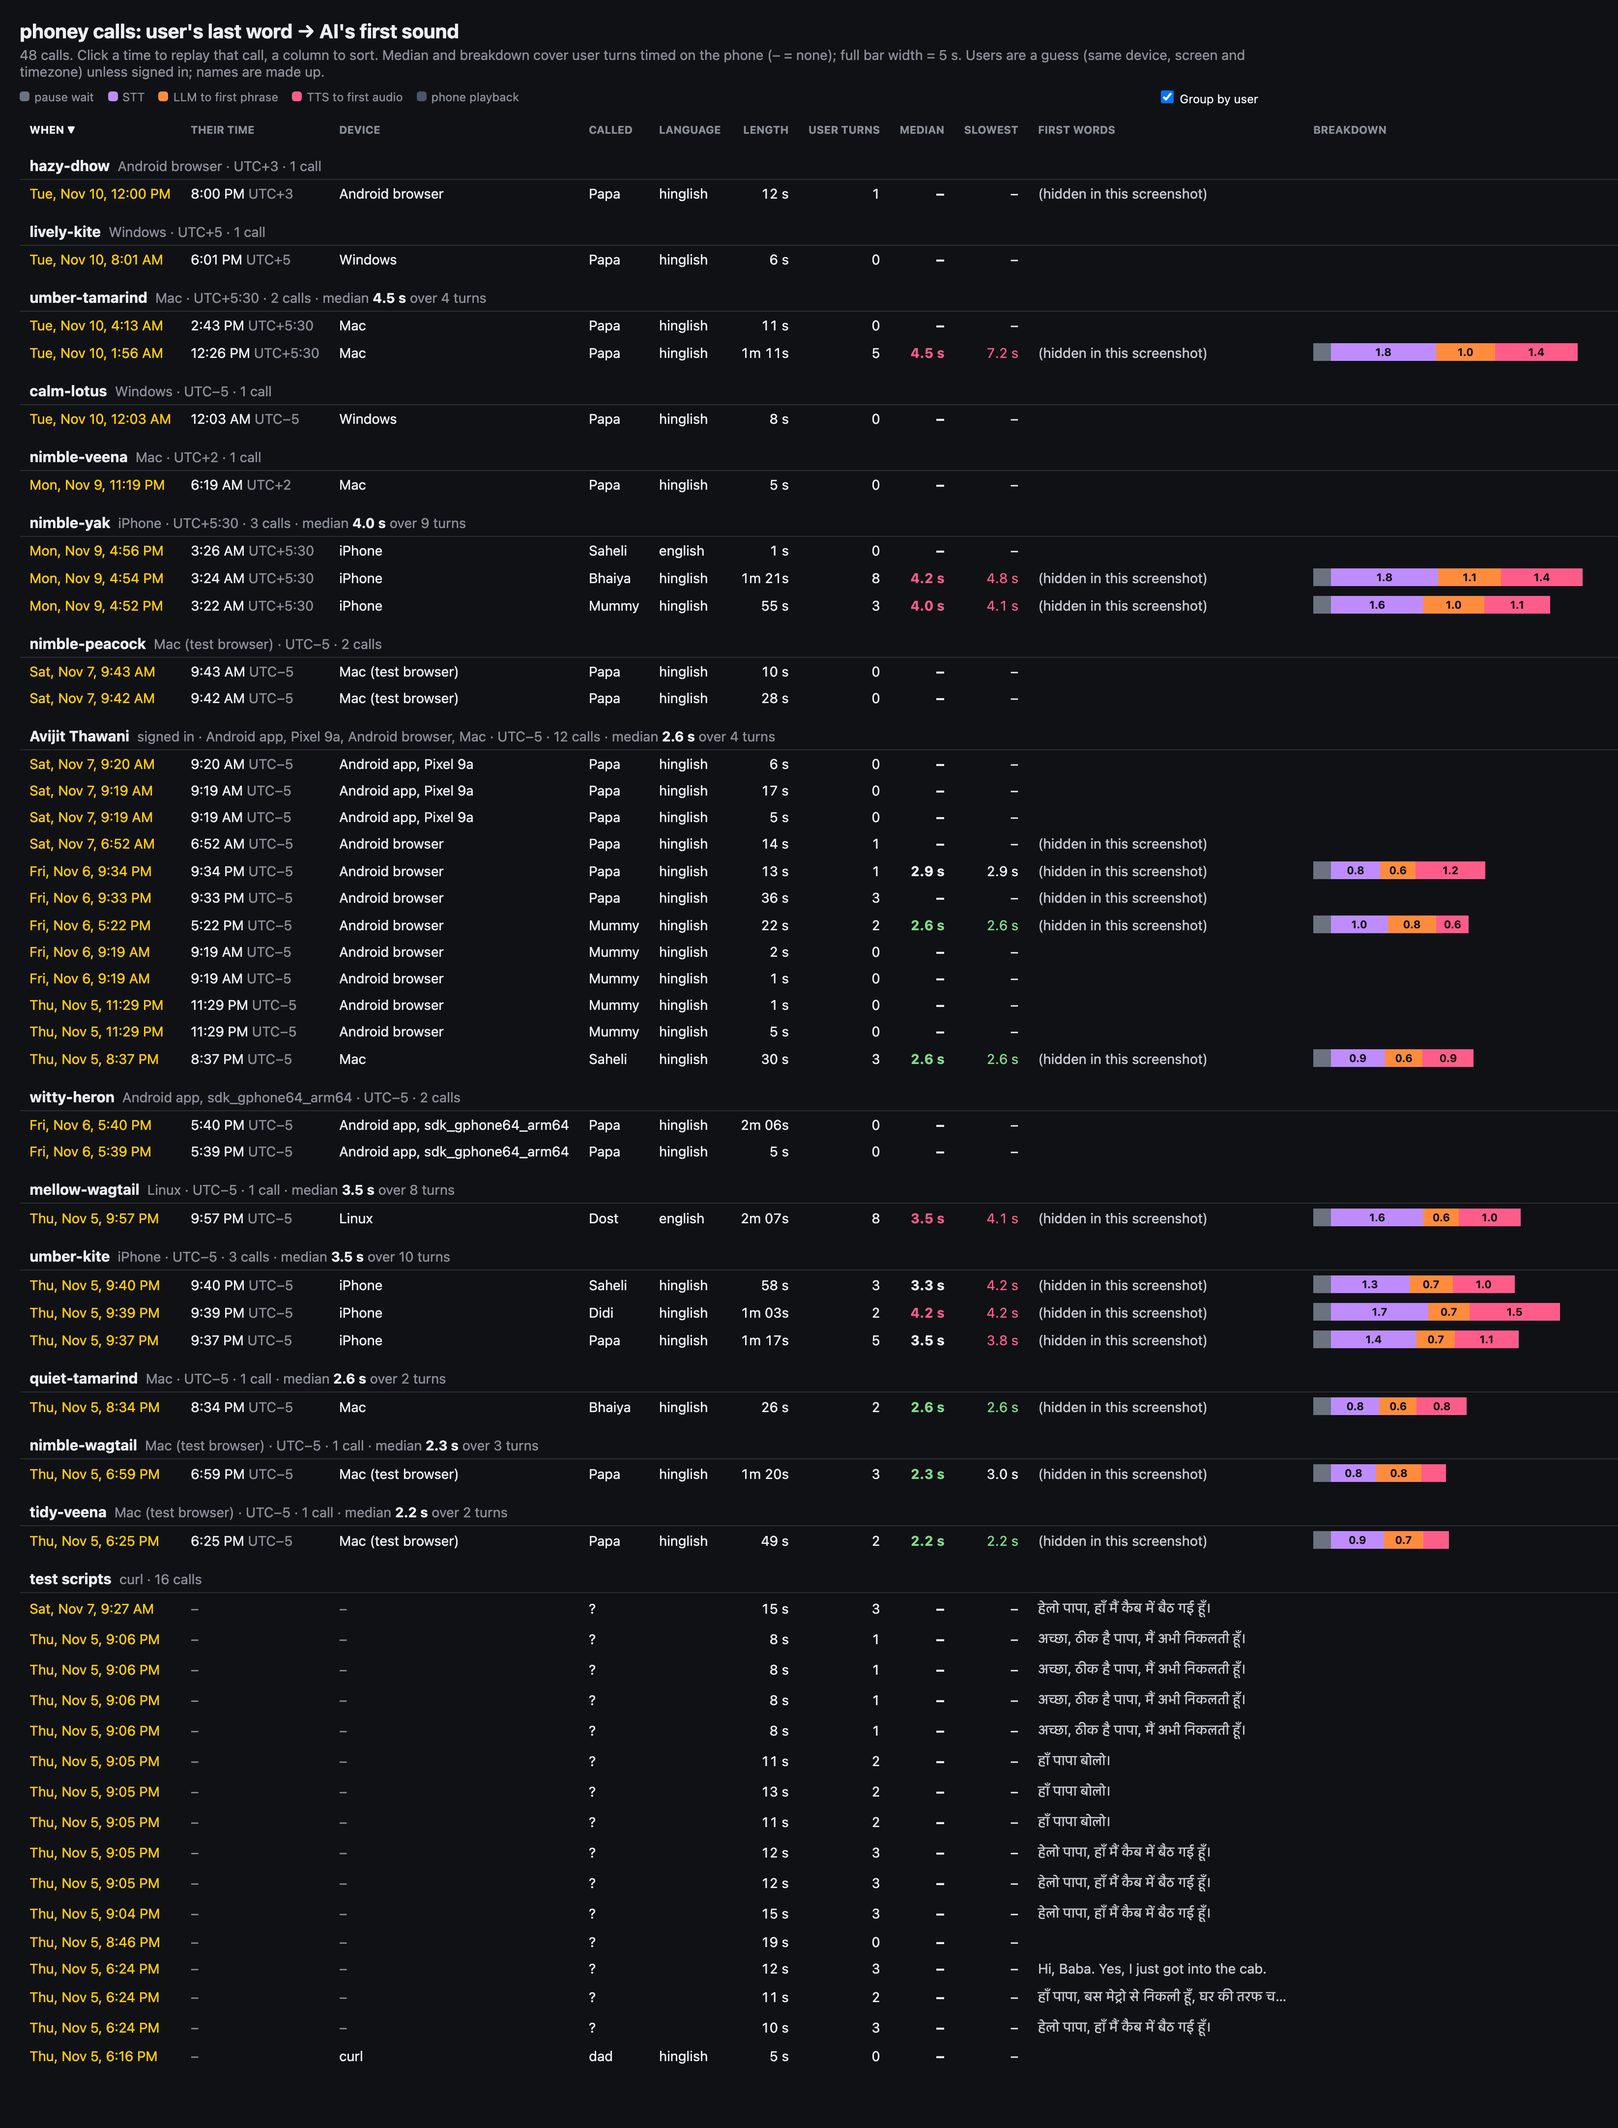
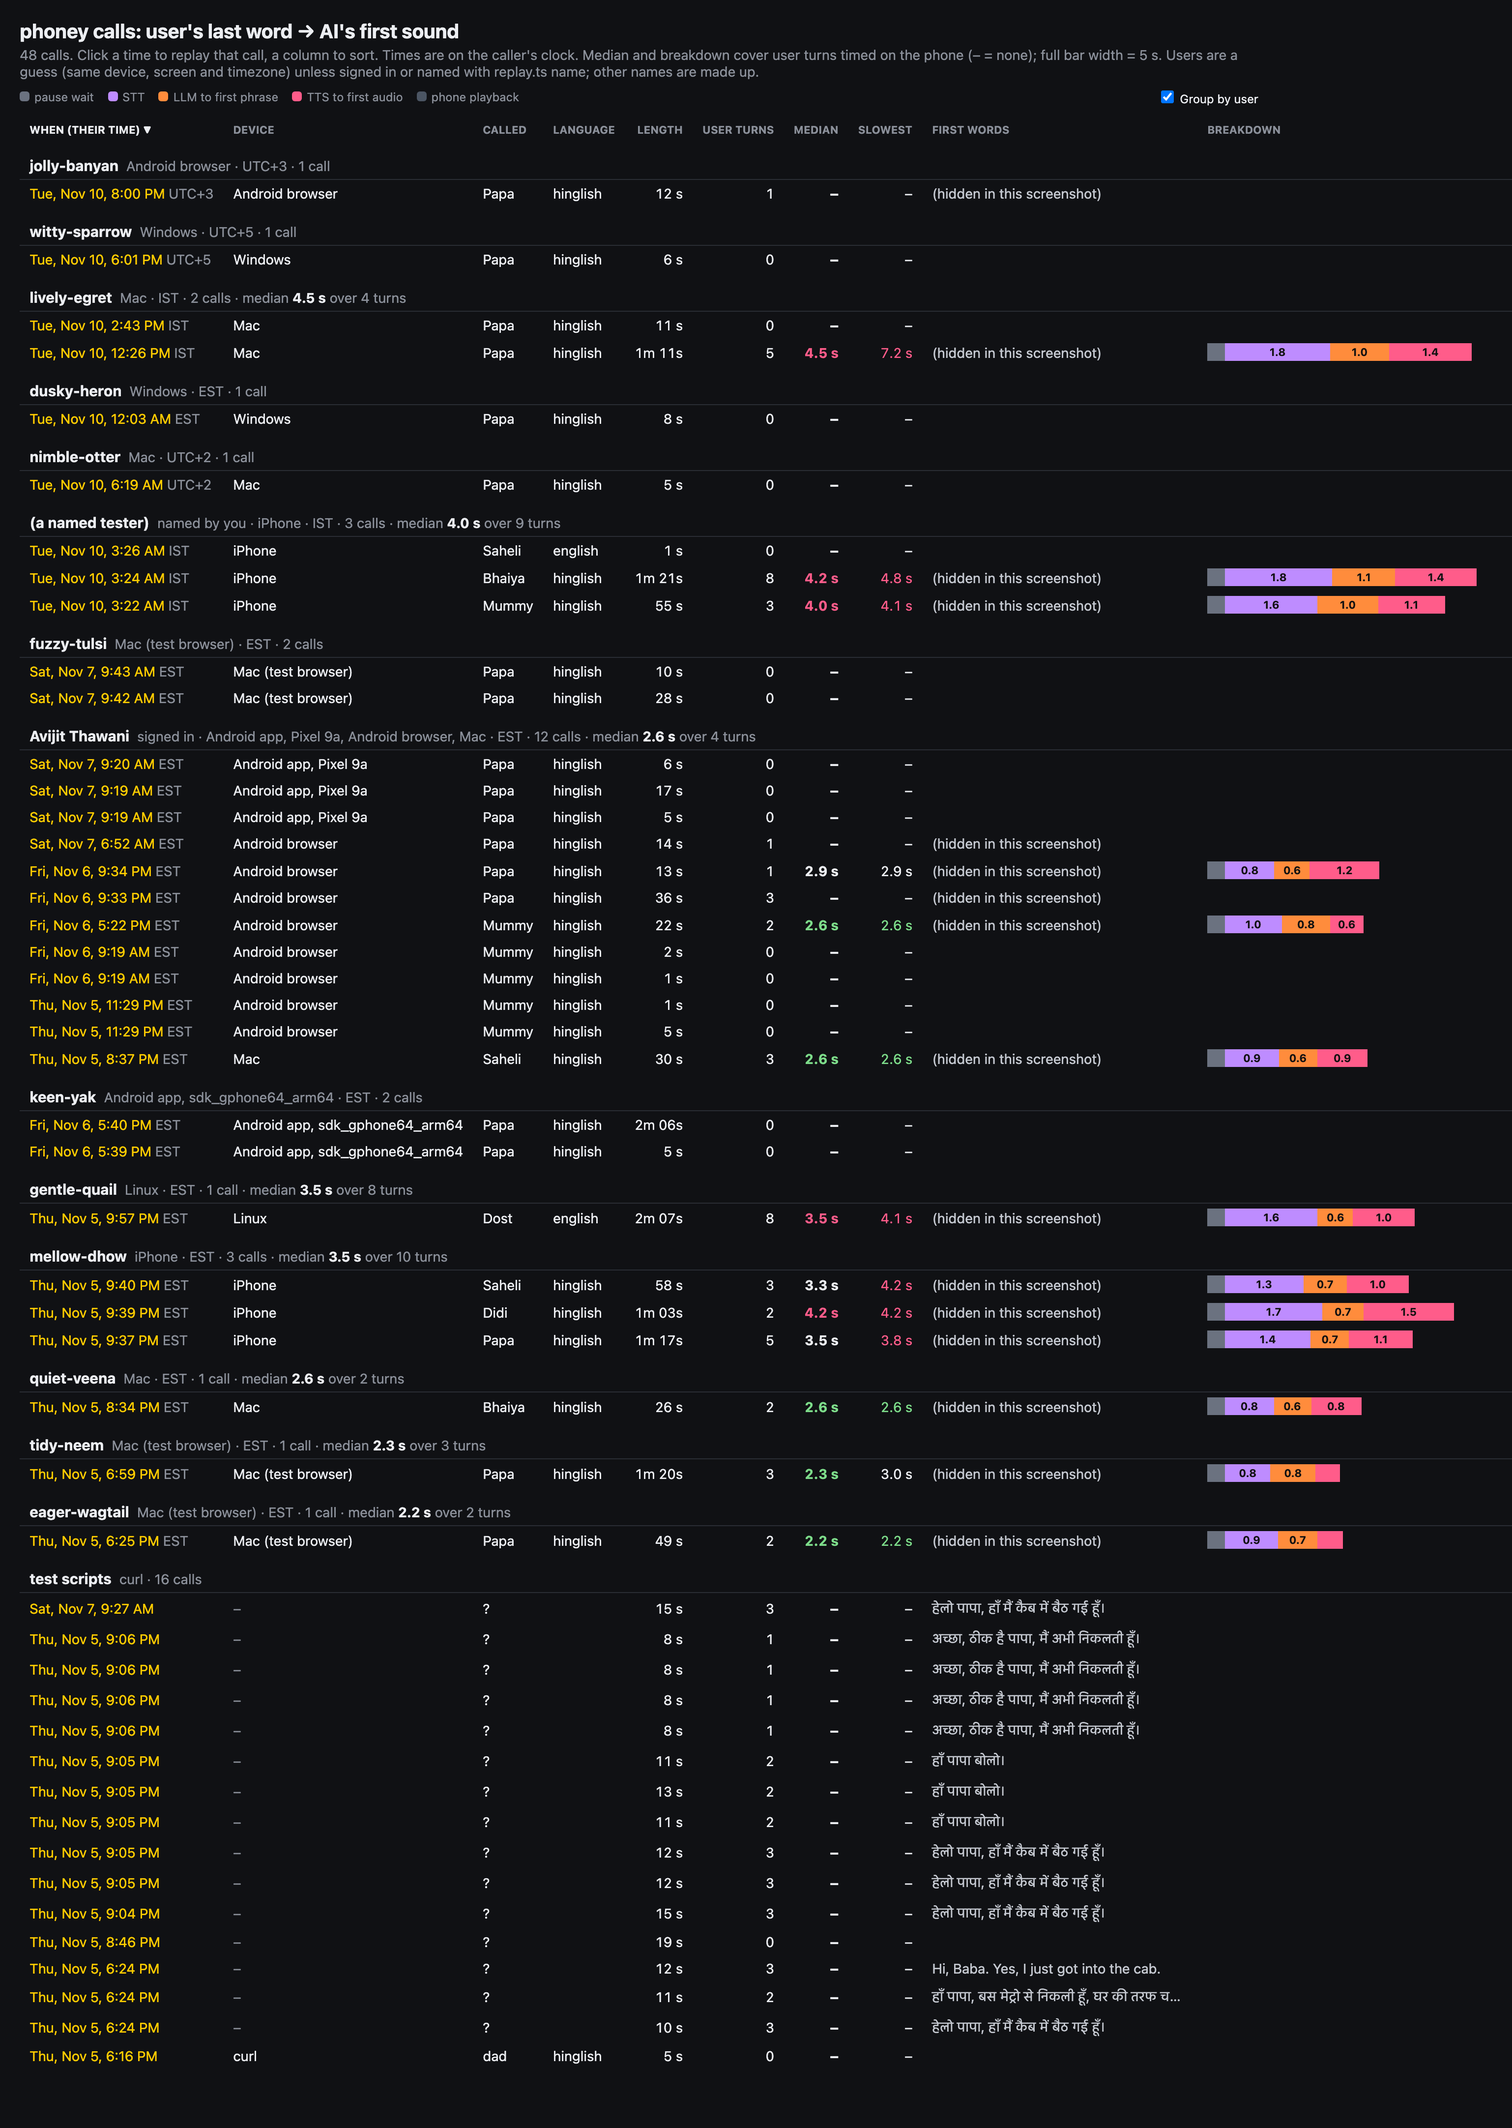
Replay index: times on the caller's clock with zone names, name a device's caller (replay.ts name), nicknames without repeated words

diff --git a/scripts/replay.ts b/scripts/replay.ts
@@ -1,6 +1,7 @@
 // Replays logged calls as pages: the call's real audio on one timeline (user lines, ai clauses,
 // fillers) and, per turn, the user's last word -> the ai's first sound split by pipeline step.
 //   node scripts/replay.ts serve                  builds every call, serves http://localhost:5199/ (calls grouped by user; click one, Replay)
+//   node scripts/replay.ts name <id> <name>       names every call from that call's device (kept in logs/, not git)
 //   node scripts/replay.ts [<id>|latest|all]      -> logs/replay/<id>.html (+ index.html)
 //   node scripts/replay-shot.mjs <id> [--video]   -> PNG (and MP4 with the call audio)
 // Deployed calls: `node scripts/logs.ts --remote <id>` downloads one into logs/calls/ first.
@@ -202,11 +203,20 @@ const NOUN = ['banyan', 'chai', 'dhow', 'egret', 'ferry', 'gulmohar', 'heron', '
 function nickname(key: string, taken: Set<string>): string {
   let h = 2166136261
   for (const c of key) h = Math.imul(h ^ c.charCodeAt(0), 16777619) >>> 0
-  for (let i = 0; ; i++) {
-    const name = `${ADJ[(h + i) % ADJ.length]}-${NOUN[(Math.floor(h / ADJ.length) + i) % NOUN.length]}`
-    if (!taken.has(name)) { taken.add(name); return name }
+  h = Math.imul(h ^ (h >>> 15), 2246822519) >>> 0 // similar keys differ only in their last characters: mix
+  // No adjective or noun repeats until the list runs out, so names are easy to tell apart.
+  const pick = (words: string[], from: number) => {
+    for (let i = 0; i < words.length; i++) {
+      const w = words[(from + i) % words.length]
+      if (!taken.has(w)) { taken.add(w); return w }
+    }
+    return words[from % words.length]
   }
+  return `${pick(ADJ, h % ADJ.length)}-${pick(NOUN, (h >>> 8) % NOUN.length)}`
 }
+
+const NAMES = path.join(OUT, 'names.json')
+const fingerprint = (r: Replay) => `${r.device}|${r.screen}|${r.tzMin}`
 
 function env(name: string): string | undefined {
   if (process.env[name]) return process.env[name]
@@ -243,12 +253,14 @@ async function accounts(): Promise<Record<string, string>> {
 /** One row per call: who called (account, else a nickname per device + screen + timezone), when, and step medians. */
 function index(rs: Replay[], account: Record<string, string>): string {
   const taken = new Set<string>(), nick = new Map<string, string>()
+  const named: Record<string, string> = json(NAMES) ?? {}
   const rows = [...rs].sort((a, b) => (a.startedAt ?? '').localeCompare(b.startedAt ?? '')).map((r) => {
     const real = r.turns.filter((x) => !x.estimated && x.user)
     const totals = real.map((x) => x.totalMs)
-    const known = !!account[r.id]
-    const key = `${r.device}|${r.screen}|${r.tzMin}`
-    const user = r.script ? SCRIPTS : known ? account[r.id] : nick.get(key) ?? nick.set(key, nickname(key, taken)).get(key)!
+    const key = fingerprint(r)
+    // Who: a name given with `replay.ts name`, else the signed-in account, else a nickname for the device.
+    const known = named[key] ? 'named by you' : account[r.id] ? 'signed in' : ''
+    const user = r.script ? SCRIPTS : named[key] ?? account[r.id] ?? nick.get(key) ?? nick.set(key, nickname(key, taken)).get(key)!
     const steps = Object.fromEntries((Object.keys(COLORS) as (keyof typeof COLORS)[]).map((k) =>
       [k, real.length ? median(real.map((x) => { const s = x.steps.find((y) => y.key === k); return s ? (s.gate ?? s.to - s.from) : 0 })) : 0]))
     return {
@@ -264,8 +276,17 @@ function index(rs: Replay[], account: Record<string, string>): string {
 
 if (import.meta.url === `file://${process.argv[1]}`) {
   const arg = process.argv[2] || 'latest'
+  mkdirSync(OUT, { recursive: true })
+  if (arg === 'name') {
+    // Stays in logs/ (gitignored): real people's names never go to git.
+    const [id, ...words] = process.argv.slice(3)
+    const r = id ? build(id) : undefined
+    if (!r || !words.length) { console.log('usage: replay.ts name <call id> <name>   (names every call from that device)'); process.exit(1) }
+    writeFileSync(NAMES, JSON.stringify({ ...(json(NAMES) ?? {}), [fingerprint(r)]: words.join(' ') }, null, 1))
+    console.log(`${fingerprint(r)} -> ${words.join(' ')}`)
+  }
   const ids = readdirSync(CALLS).filter((d) => statSync(path.join(CALLS, d)).isDirectory()).sort()
-  const pick = arg === 'all' || arg === 'serve' ? ids : arg === 'latest' ? ids.filter((d) => /^2026\d{4}-/.test(d)).slice(-1) : [arg]
+  const pick = arg === 'all' || arg === 'serve' || arg === 'name' ? ids : arg === 'latest' ? ids.filter((d) => /^2026\d{4}-/.test(d)).slice(-1) : [arg]
   mkdirSync(OUT, { recursive: true })
   const built: Replay[] = []
   for (const id of pick) {
@@ -277,7 +298,7 @@ if (import.meta.url === `file://${process.argv[1]}`) {
     const real = r.turns.filter((x) => !x.estimated && x.user)
     console.log(`${OUT}/${id}.html  ${r.turns.length} turns, ${r.clips.length} clips, median ${real.length ? median(real.map((x) => x.totalMs)) : '-'} ms`)
   }
-  const all = readdirSync(OUT).filter((f) => f.endsWith('.json') && f !== 'accounts.json').map((f) => JSON.parse(readFileSync(path.join(OUT, f), 'utf8')) as Replay)
+  const all = readdirSync(OUT).filter((f) => f.endsWith('.json') && f !== 'accounts.json' && f !== 'names.json').map((f) => JSON.parse(readFileSync(path.join(OUT, f), 'utf8')) as Replay)
   writeFileSync(path.join(OUT, 'index.html'), index(all, await accounts()))
   if (arg === 'serve') {
     const root = path.resolve('logs')

diff --git a/scripts/replay-index.html b/scripts/replay-index.html
@@ -38,13 +38,15 @@ const secs = (ms) => (ms == null ? '–' : (ms / 1000).toFixed(1) + ' s')
 const speed = (ms) => (ms == null ? '' : ms >= 3500 ? 'slow' : ms <= 2700 ? 'ok' : '')
 const len = (s) => (s == null ? '–' : s >= 60 ? Math.floor(s / 60) + 'm ' + String(Math.round(s % 60)).padStart(2, '0') + 's' : Math.round(s) + ' s')
 const when = new Intl.DateTimeFormat(undefined, { weekday: 'short', month: 'short', day: 'numeric', hour: 'numeric', minute: '2-digit' })
+// Offsets with one obvious zone get its name; the rest could be several countries, so they stay as an offset.
+const ZONES = { 330: 'IST', '-300': 'EST', '-240': 'EDT', '-360': 'CST', '-420': 'MST', '-480': 'PST', 0: 'GMT', 60: 'CET', 345: 'NPT', 480: 'SGT', 540: 'JST' }
 const utc = (min) => 'UTC' + (min < 0 ? '−' : '+') + Math.floor(Math.abs(min) / 60) + (min % 60 ? ':' + String(Math.abs(min) % 60).padStart(2, '0') : '')
-/** The caller's own clock time, from their UTC offset. */
-function theirs(r) {
-  if (r.tzMin == null) return '<span class="dim">–</span>'
-  const d = new Date(r.at + r.tzMin * 60000)
-  const h = d.getUTCHours(), m = String(d.getUTCMinutes()).padStart(2, '0')
-  return `${h % 12 || 12}:${m} ${h < 12 ? 'AM' : 'PM'} <span class="dim">${utc(r.tzMin)}</span>`
+const zone = (min) => ZONES[min] ?? utc(min)
+const theirClock = new Intl.DateTimeFormat(undefined, { weekday: 'short', month: 'short', day: 'numeric', hour: 'numeric', minute: '2-digit', timeZone: 'UTC' })
+/** The call's start on the caller's own clock (their UTC offset comes from the session id); hover for yours. */
+function started(r) {
+  const text = r.tzMin == null ? when.format(r.at) : `${theirClock.format(r.at + r.tzMin * 60000)} <span class="dim">${zone(r.tzMin)}</span>`
+  return `<a href="${esc(r.id)}.html" title="${esc(when.format(r.at))} your time · ${esc(r.id)}">${text}</a>`
 }
 function bar(r) {
   return Object.keys(D.colors).map((k) => {
@@ -53,9 +55,8 @@ function bar(r) {
   }).join('')
 }
 const cols = [
-  { k: 'at', label: 'When', cell: (r) => `<a href="${esc(r.id)}.html" title="${esc(r.id)}">${when.format(r.at)}</a>` },
+  { k: 'at', label: 'When (their time)', cell: started },
   { k: 'user', label: 'User', cell: (r) => esc(r.user), grouped: false },
-  { k: 'tzMin', label: 'Their time', cell: theirs },
   { k: 'device', label: 'Device', cell: (r) => esc(r.device) || '<span class="dim">–</span>' },
   { k: 'who', label: 'Called', cell: (r) => esc(r.who) },
   { k: 'language', label: 'Language', cell: (r) => esc(r.language) },
@@ -92,8 +93,8 @@ function render() {
       const totals = g.flatMap((r) => r.totals)
       const med = median(totals)
       const devices = [...new Set(g.map((r) => r.device).filter(Boolean))].join(', ')
-      const tz = [...new Set(g.map((r) => r.tzMin).filter((x) => x != null))].map(utc).join(', ')
-      const bits = [g[0].known ? 'signed in' : '', devices, tz, `${g.length} call${g.length > 1 ? 's' : ''}`,
+      const tz = [...new Set(g.map((r) => r.tzMin).filter((x) => x != null))].map(zone).join(', ')
+      const bits = [g[0].known || '', devices, tz, `${g.length} call${g.length > 1 ? 's' : ''}`,
         totals.length ? `median <b class="${speed(med)}" style="font-size:inherit;margin:0">${secs(med)}</b> over ${totals.length} turns` : ''].filter(Boolean)
       html += `<tr class="g"><td colspan="${shown.length}"><b>${esc(name)}</b>${bits.join(' · ')}</td></tr>` + g.map(tr).join('')
     }
@@ -108,8 +109,8 @@ document.getElementById('head').onclick = (e) => {
   else { state.key = c.k; state.dir = c.num || c.k === 'at' ? -1 : 1 }
   render()
 }
-document.getElementById('sub').textContent = `${D.rows.length} calls. Click a time to replay that call, a column to sort. Median and breakdown cover user turns timed on the phone (– = none); full bar width = ${D.scaleMs / 1000} s. ` +
-  `Users are a guess (same device, screen and timezone) unless signed in; names are made up.`
+document.getElementById('sub').textContent = `${D.rows.length} calls. Click a time to replay that call, a column to sort. Times are on the caller's clock. Median and breakdown cover user turns timed on the phone (– = none); full bar width = ${D.scaleMs / 1000} s. ` +
+  `Users are a guess (same device, screen and timezone) unless signed in or named with replay.ts name; other names are made up.`
 document.getElementById('lg').innerHTML = Object.keys(D.colors).map((k) => `<span><i style="background:${D.colors[k]}"></i>${D.labels[k]}</span>`).join('') +
   `<label><input type="checkbox" id="grp" checked> Group by user</label>`
 document.getElementById('grp').onchange = (e) => { state.group = e.target.checked; render() }

diff --git a/kanban/call-replay.md b/kanban/call-replay.md
@@ -3,6 +3,7 @@ feature: Call replay (listen to a logged call, see where each reply's delay went
 tags: []
 tests: [replay-serve, replay-shot]
 transcripts:
+  - efb09834-6f42-40b0-aac0-b2aad62a205e 2026-11-10 index: times on the caller's clock with zone names, `replay.ts name`, nicknames no longer repeat words (local commit, not pushed)
   - efb09834-6f42-40b0-aac0-b2aad62a205e 2026-11-10 index reworked: calls grouped by user, sortable columns, sticky header
   - efb09834-6f42-40b0-aac0-b2aad62a205e 2026-11-10 card created retroactively, screenshots, first use on a tester's calls
   - b8e89f5b-88b6-49b8-8c53-42ff14b8c27e 2026-11-07 built the viewer (commits bce7cc5, 0f9c946, add1d31)
@@ -18,7 +19,7 @@ A local debugging page, not part of the app: it plays back any logged call on on
 <img src="media/call-replay-page.png" width="200" alt="One call: summary, whole-call row, transcript, a panel per turn">
 <img src="media/call-replay-playing.png" width="260" alt="Mid-replay: playhead crossing turn 01">
 
-Left: the index, 2026-11-10, with real callers' first words hidden for the screenshot. Middle and right: a scripted `smoke-call` with lab voices, so every bar is dashed and marked "~" (server timings plus a network guess); real calls show solid bars for the server's share and hatched for upload, network and decode. Real callers' pages are never committed.
+Left: the index, 2026-11-10, with real callers' first words and given names hidden for the screenshot. Middle and right: a scripted `smoke-call` with lab voices, so every bar is dashed and marked "~" (server timings plus a network guess); real calls show solid bars for the server's share and hatched for upload, network and decode. Real callers' pages are never committed.
 
 ## Where it lives
 
@@ -34,8 +35,8 @@ Deployed calls must be downloaded first: `node scripts/logs.ts --remote` lists t
 ## How to read it
 
 - Step lengths come from the phone's per-turn metrics, so they add up to the delay she heard. The STT bar therefore includes the upload; the solid part is the server's own time.
-- Index: one row per call (when, the caller's own clock time, device, who she called, length, user turns, median and slowest delay, first words, per-step bar). Click a header to sort; blanks always sort last. Median covers user turns timed on the phone; "–" means none (test scripts, or she hung up before speaking).
-- Users: a signed-in call takes the account's name (looked up through the `calls` table with the service key in `.env`, cached in `logs/replay/accounts.json`). Everyone else gets a made-up adjective-noun name per device + screen size + UTC offset, so two people with the same phone model in one timezone merge, and one person on two devices splits. The UTC offset comes from the session id, which starts with the caller's local time. "Group by user" can be switched off.
+- Index: one row per call (when on the caller's own clock, with the zone's name where the offset has one obvious zone, e.g. IST, EST, else the offset; device, who she called, length, user turns, median and slowest delay, first words, per-step bar). Click a header to sort; blanks always sort last. Median covers user turns timed on the phone; "–" means none (test scripts, or she hung up before speaking).
+- Users: `node scripts/replay.ts name <call id> <name>` names every call from that call's device (kept in `logs/replay/names.json`, never in git). Otherwise a signed-in call takes the account's name (looked up through the `calls` table with the service key in `.env`, cached in `logs/replay/accounts.json`). Everyone else gets a made-up adjective-noun name (no word reused across callers) per device + screen size + UTC offset, so two people with the same phone model in one timezone merge, and one person on two devices splits. The UTC offset comes from the session id, which starts with the caller's local time. "Group by user" can be switched off.
 - The opening line and turns the call ended on have no phone metrics, so they use server timings and are marked "~".
 - Fillers are placed from the phone's clock, corrected by the start event's skew.
 
